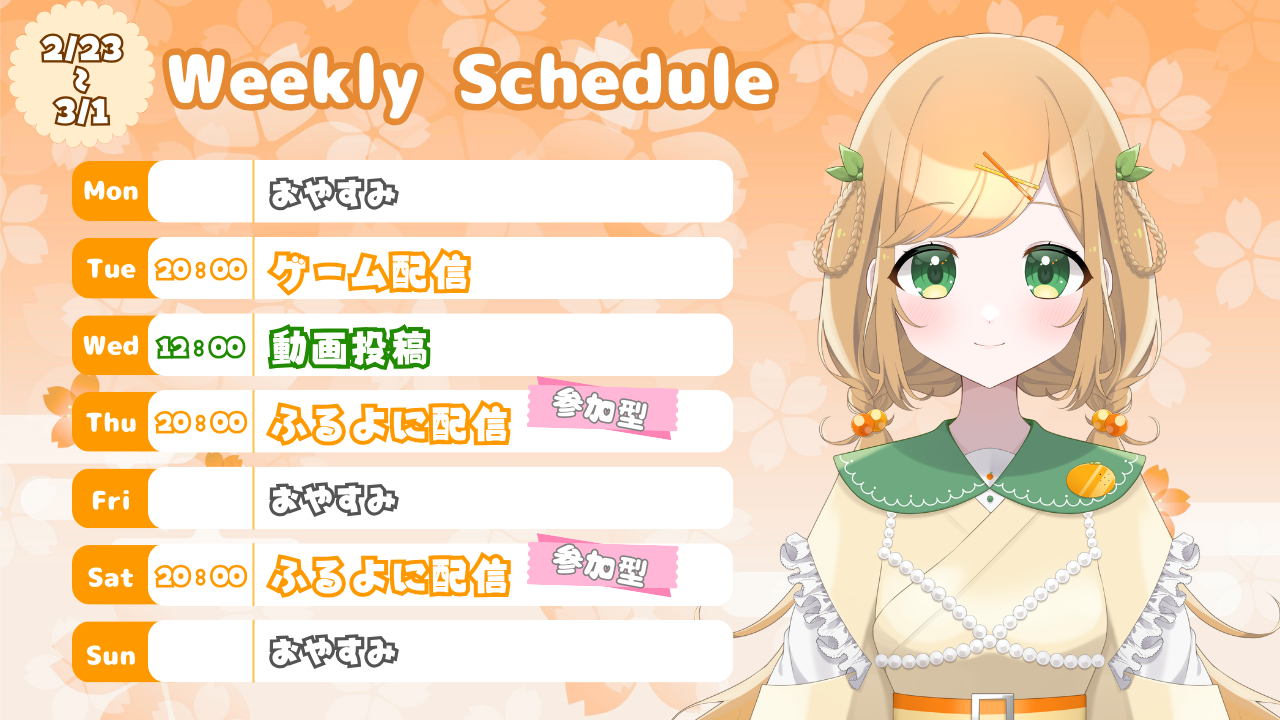
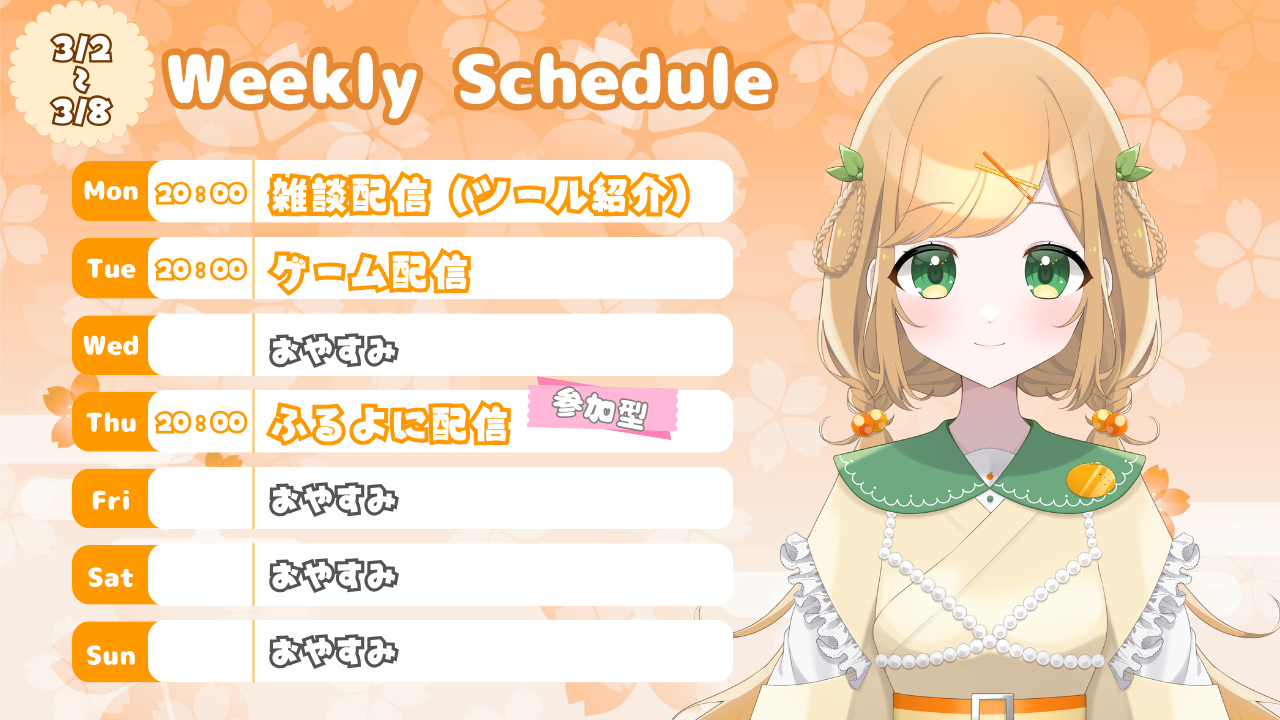
Add files via upload

diff --git a/index.html b/index.html
@@ -503,7 +503,7 @@
             </div>
             <h3>世界を作る部屋</h3>
             <p>
-              配信者向けのWebサイト制作をしています。ご依頼はこちらから。
+              あなたの世界観、形にしませんか。
             </p>
             <div class="btnrow">
               <a class="btn primary" href="service.html">制作ページ</a>
@@ -520,26 +520,20 @@
           </div>
           <ul class="schedule">
             <li>
+              <a class="scheduleLink" href="#" id="scheduleMon">
+                <span class="day">月</span><span class="note">雑談配信（ツール紹介）</span>
+              </a>
+            </li>
+
+            <li>
               <a class="scheduleLink" href="#" id="scheduleTue">
                 <span class="day">火</span><span class="note">ゲーム配信</span>
               </a>
             </li>
 
             <li>
-              <a class="scheduleLink" href="#" id="scheduleWed">
-                <span class="day">水</span><span class="note">動画投稿</span>
-              </a>
-            </li>
-
-            <li>
               <a class="scheduleLink" href="#" id="scheduleThu">
                 <span class="day">木</span><span class="note">ふるよに参加型</span>
-              </a>
-            </li>
-
-            <li>
-              <a class="scheduleLink" href="#" id="scheduleSat">
-                <span class="day">土</span><span class="note">ふるよに参加型（無理ならお休み）</span>
               </a>
             </li>
           </ul>
@@ -565,14 +559,17 @@
   <script>
     // ★ここだけ書き換えるとリンクが生きます（後からでOK）
     const YOUTUBE_CHANNEL_URL = "https://www.youtube.com/channel/UCrXd_KijTSd_iNUo2H32t0A";   // 例: "https://www.youtube.com/@yourchannel"
-    const LATEST_URL = "https://youtu.be/IMyrrpWHIhw";            // 例: 最新動画や配信のURL
+    const LATEST_URL = "https://youtube.com/live/twx6W-o1ulI";            // 例: 最新動画や配信のURL
     const DECK_BUILDER_URL = "";      // 例: あなたのデッキ構築システムのURL
     const BLOGLINK_URL = "https://shionbodoge.com/";       // ブログURL
     const XLINK_URL = "https://x.com/shionbodoge";       // XURL
-    const SCHEDULE_TUE_URL = "https://youtube.com/live/88f58ieyVBA"; // 配信URL
-    const SCHEDULE_WED_URL = "https://youtu.be/IMyrrpWHIhw"; // 動画URL
-    const SCHEDULE_THU_URL = "https://youtube.com/live/4cIe7VT4Qu8"; // 参加型URL
+    const SCHEDULE_MON_URL = "https://youtube.com/live/LhRwD50chO0"; // 配信URL
+    const SCHEDULE_TUE_URL = "https://youtube.com/live/YjAPCXB97H0"; // 配信URL
+    const SCHEDULE_WED_URL = ""; // 動画URL
+    const SCHEDULE_THU_URL = "https://youtube.com/live/ch1w93bSmR8"; // 参加型URL
+    const SCHEDULE_FRI_URL = ""; // 参加型URL
     const SCHEDULE_SAT_URL = ""; // 調整枠（配信するならURL / 休みなら空でOK）
+    const SCHEDULE_SAN_URL = ""; // 調整枠（配信するならURL / 休みなら空でOK）
 
     // 年号
     document.getElementById("year").textContent = new Date().getFullYear();
@@ -596,10 +593,13 @@
     setLink("blogLink", BLOGLINK_URL);
     setLink("XLink", XLINK_URL);
     
+    setLink("scheduleMon", SCHEDULE_MON_URL);
     setLink("scheduleTue", SCHEDULE_TUE_URL);
     setLink("scheduleWed", SCHEDULE_WED_URL);
     setLink("scheduleThu", SCHEDULE_THU_URL);
+    setLink("scheduleFri", SCHEDULE_FRI_URL);
     setLink("scheduleSat", SCHEDULE_SAT_URL);
+    setLink("scheduleSan", SCHEDULE_SAN_URL);
 
     // URLが "#" のリンクは「準備中」にする
     document.querySelectorAll('a[href="#"]').forEach(link => {
@@ -610,6 +610,4 @@
     });
   </script>
 </body>
-
 </html>
-
